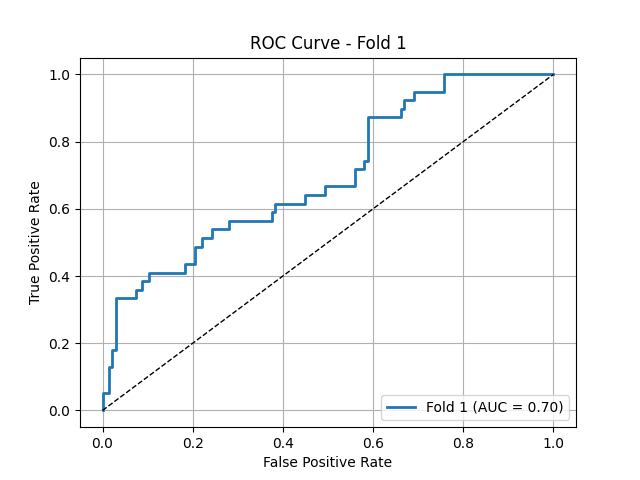
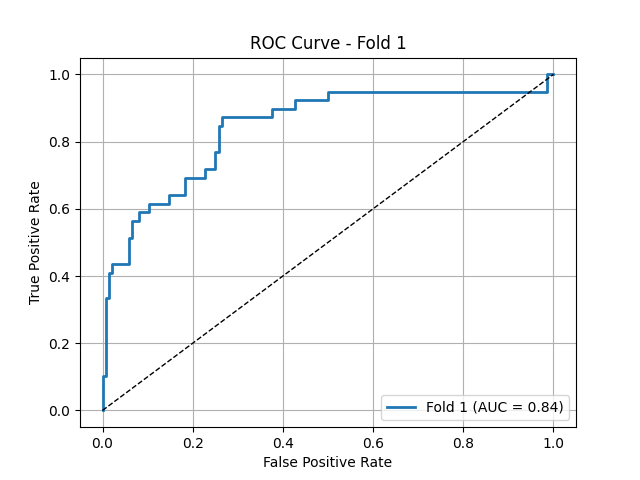
exp:only image:reviewed fulldata

diff --git a/train_washu2_classifier.py b/train_washu2_classifier.py
@@ -51,7 +51,7 @@ for fold in range(k_fold):
     trainDataset = Classificaiton_Dataset(phase = 'train', k_fold = k_fold, fold = fold, radiomics_dir= False) # r"Only_radiomics_based_classification\radiomics_features_washu2_p1_143_with_labels_sdf4_nd_normseg.csv")
     valDataset = Classificaiton_Dataset(phase = 'val', k_fold = k_fold, fold = fold, radiomics_dir= False) #r"Only_radiomics_based_classification\radiomics_features_washu2_p1_143_with_labels_sdf4_nd_normseg.csv")
     #testDataset =  Classificaiton_Dataset_test(phase = 'test', k_fold = k_fold, fold = fold, radiomics_dir= r"Only_radiomics_based_classification\radiomics_features_washu2_p1_143_with_labels_sdf4_nd_normseg.csv")
-    testDataset = Classificaiton_Dataset(phase = 'val', k_fold = k_fold, fold = 0, radiomics_dir= False) #r"Only_radiomics_based_classification\radiomics_features_washu2_p1_143_with_labels_sdf4_nd_normseg.csv")
+    #testDataset = Classificaiton_Dataset(phase = 'val', k_fold = k_fold, fold = 0, radiomics_dir= False) #r"Only_radiomics_based_classification\radiomics_features_washu2_p1_143_with_labels_sdf4_nd_normseg.csv")
     train_loader = DataLoader(
                 trainDataset,
                 batch_size=batch_size,
@@ -70,14 +70,14 @@ for fold in range(k_fold):
                 #persistent_workers=True,
             )
     
-    test_loader = DataLoader(
-                testDataset,
-                batch_size=batch_size,
-                shuffle=False,
-                num_workers=num_workers,
-                drop_last= False,
-                #persistent_workers=True,
-            )
+    # test_loader = DataLoader(
+    #             testDataset,
+    #             batch_size=batch_size,
+    #             shuffle=False,
+    #             num_workers=num_workers,
+    #             drop_last= False,
+    #             #persistent_workers=True,
+    #         )
 
 
     # Initialize Callbacks
@@ -109,7 +109,7 @@ for fold in range(k_fold):
 
     # Get predictions on the test set for ROC curve
     # Get predictions on the test set
-    y_true, y_probs = model.get_predictions_on_loader(test_loader)
+    y_true, y_probs = model.get_predictions_on_loader(val_loader)
     #Load best model from checkpoint after training
     best_model_path = checkpoint_callback.best_model_path
     best_model = BinaryClassification.load_from_checkpoint(
@@ -122,7 +122,7 @@ for fold in range(k_fold):
     best_model.freeze()
 
     # Get predictions using the best model
-    y_true, y_probs = best_model.get_predictions_on_loader(test_loader)
+    y_true, y_probs = best_model.get_predictions_on_loader(val_loader)
 
     # Plot and log the ROC for this fold
     fpr, tpr, roc_auc = plot_roc_curve(y_true, y_probs, fold_idx=fold + 1, wandb_logger=wandb_logger)
@@ -139,40 +139,40 @@ for fold in range(k_fold):
 
 ######################################### MULTI-FOLD ROC CURVE PLOTTING #########################################
 
-# Create common FPR base for interpolation
-mean_fpr = np.linspace(0, 1, 100)
-interp_tprs = []
+# # Create common FPR base for interpolation
+# mean_fpr = np.linspace(0, 1, 100)
+# interp_tprs = []
 
-plt.figure()
-for i, (fpr, tpr, auc_score) in enumerate(zip(all_fprs, all_tprs, all_aucs)):
-    interp_tpr = np.interp(mean_fpr, fpr, tpr)
-    interp_tpr[0] = 0.0
-    interp_tprs.append(interp_tpr)
-    plt.plot(fpr, tpr, lw=1.5, alpha=0.7, label=f'Fold {i+1} (AUC = {auc_score:.2f})')
+# plt.figure()
+# for i, (fpr, tpr, auc_score) in enumerate(zip(all_fprs, all_tprs, all_aucs)):
+#     interp_tpr = np.interp(mean_fpr, fpr, tpr)
+#     interp_tpr[0] = 0.0
+#     interp_tprs.append(interp_tpr)
+#     plt.plot(fpr, tpr, lw=1.5, alpha=0.7, label=f'Fold {i+1} (AUC = {auc_score:.2f})')
 
-mean_tpr = np.mean(interp_tprs, axis=0)
-mean_tpr[-1] = 1.0
-mean_auc = auc(mean_fpr, mean_tpr)
+# mean_tpr = np.mean(interp_tprs, axis=0)
+# mean_tpr[-1] = 1.0
+# mean_auc = auc(mean_fpr, mean_tpr)
 
-plt.plot(mean_fpr, mean_tpr, color='b', lw=2, linestyle='--', label=f'Mean ROC (AUC = {mean_auc:.2f})')
-plt.plot([0, 1], [0, 1], 'k--', lw=1)
+# plt.plot(mean_fpr, mean_tpr, color='b', lw=2, linestyle='--', label=f'Mean ROC (AUC = {mean_auc:.2f})')
+# plt.plot([0, 1], [0, 1], 'k--', lw=1)
 
-plt.xlabel('False Positive Rate')
-plt.ylabel('True Positive Rate')
-plt.title('ROC Curves Across All Folds')
-plt.legend(loc='lower right')
-plt.grid(True)
+# plt.xlabel('False Positive Rate')
+# plt.ylabel('True Positive Rate')
+# plt.title('ROC Curves Across All Folds')
+# plt.legend(loc='lower right')
+# plt.grid(True)
 
-final_img_path = 'roc_all_folds.png'
-plt.savefig(final_img_path)
-plt.close()
+# final_img_path = 'roc_all_folds.png'
+# plt.savefig(final_img_path)
+# plt.close()
 
-# Log final summary ROC to WandB
-run_name = f'classification_all_folds_{commit_log}_commit_{commit_string}_{datetime.now().strftime("%Y-%m-%d_%H-%M-%S")}'
-wandb_logger = WandbLogger(
-    log_model=False,
-    project="Ovarian_Tumor_Classification_WashU2",
-    name=run_name
-)
-wandb_logger.experiment.log({"ROC Curve - All Folds": wandb.Image(final_img_path)})
-wandb.finish()
+# # # Log final summary ROC to WandB
+# # run_name = f'classification_all_folds_{commit_log}_commit_{commit_string}_{datetime.now().strftime("%Y-%m-%d_%H-%M-%S")}'
+# # wandb_logger = WandbLogger(
+# #     log_model=False,
+# #     project="Ovarian_Tumor_Classification_WashU2",
+# #     name=run_name
+# # )
+# wandb_logger.experiment.log({"ROC Curve - All Folds": wandb.Image(final_img_path)})
+# wandb.finish()
